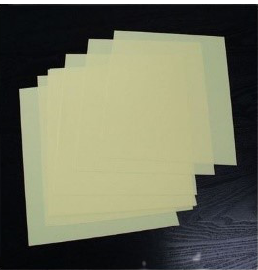
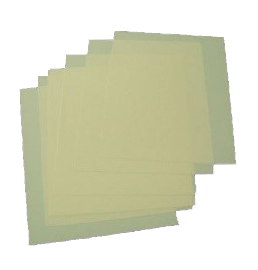
fix the bg of images

diff --git a/Data/Products.js b/Data/Products.js
@@ -19,7 +19,7 @@ const ProductsData = [
       `,
     price: "14 000.00",
     stars: "4",
-    producImg: "/imgs/calculatriceparlante.png",
+    producImg: "/imgs/calculatriceparlante.jpg",
     category: "CALCULE",
   },
   {
@@ -135,7 +135,7 @@ const ProductsData = [
 `,
     price: "1800.00",
     stars: "4",
-    producImg: "/imgs/regle.jpg",
+    producImg: "/imgs/regle.png",
     category: "DESSINS",
   },
   {
@@ -316,7 +316,7 @@ const ProductsData = [
 `,
     price: "14 000.00",
     stars: "4",
-    producImg: "/imgs/boiteson.jpg",
+    producImg: "/imgs/boiteson.png",
     category: "JEUX EDUCATIFS",
   },
   {
@@ -462,7 +462,7 @@ const ProductsData = [
 `,
     price: "2150.00",
     stars: "4",
-    producImg: "/imgs/papier.jpg",
+    producImg: "/imgs/papier.png",
     category: "Machine à écrire",
   },
   {
@@ -498,7 +498,7 @@ const ProductsData = [
 `,
     price: "500.00",
     stars: "4",
-    producImg: "/imgs/papers.jpg",
+    producImg: "/imgs/papers.png",
     category: "Machine à écrire",
   },
   {
@@ -654,7 +654,7 @@ const ProductsData = [
 `,
     price: "6500.00",
     stars: "4",
-    producImg: "/imgs/PUZZLE.jpg",
+    producImg: "/imgs/PUZZLE.png",
     category: "Matériels Pédagogique",
   },
   {
@@ -721,7 +721,7 @@ const ProductsData = [
     `,
     price: "4000.00",
     stars: "4",
-    producImg: "/imgs/loup.jpg",
+    producImg: "/imgs/loup.png",
     category: "Matériels Pédagogique",
   },
   {
@@ -736,7 +736,7 @@ const ProductsData = [
     `,
     price: "24 000.00",
     stars: "4",
-    producImg: "/imgs/cubalg.jpg",
+    producImg: "/imgs/cubalg.png",
     category: "Matériels Pédagogique",
   },
   {
@@ -754,7 +754,7 @@ const ProductsData = [
     `,
     price: "5000.00",
     stars: "4",
-    producImg: "/imgs/tablette.jpg",
+    producImg: "/imgs/tablette.png",
     category: "Tablette et Accessoires",
   },
   {

diff --git a/pages/products/index.js b/pages/products/index.js
@@ -21,7 +21,7 @@ const Products = () => {
   /* categories */
   const [isCategoOpen, setCategoOpen] = useState(true);
   /* filter number of products to display*/
-  const [filterNBRProducts, setNumberPro] = useState(10);
+  const [filterNBRProducts, setNumberPro] = useState(11);
   /* filter products per categories */
   const [produstFilter, setProductsFilter] = useState([
     false,
@@ -152,6 +152,7 @@ const Products = () => {
                   name="Numberproducts"
                   className="w-20 pl-2 border-2"
                   onChange={handleNBRpro}
+                  placeholder={filterNBRProducts}
                   
                 ></input>
               </div>
